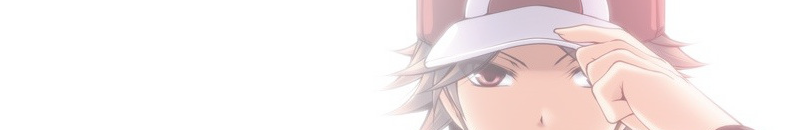
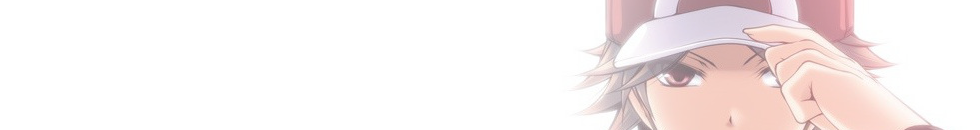
even more responsive

Changed region(s): [[0.4855, 0.0, 0.9709, 1.0]]

diff --git a/main.js b/main.js
@@ -15,11 +15,9 @@ function revealContent() {
   content.classList.add('animated');
   content.classList.add('bounceInRight')
 
-
   setTimeout(function() {
 
     content = document.getElementById('showimg');
-
     content.classList.remove('animated');
     content.classList.remove('bounceInRight');
 
@@ -28,7 +26,6 @@ function revealContent() {
 }
 
 function postPokemon(name) {
-    var pokemonName = myPokemon[name];
 
   var newcall = new XMLHttpRequest();
   newcall.onreadystatechange = function() {
@@ -41,12 +38,11 @@ function postPokemon(name) {
       document.getElementById("showimg").src = "images/"+name+".png"
     }
   }
-  newcall.open("GET", pokemonName.apiLink, true);
+  newcall.open("GET", myPokemon[name].apiLink, true);
   newcall.send();
 }
 
 // NOW WITH OBJECTS!!
-
 allPokemon = [];
 totalPokemon = 0;
 
@@ -71,9 +67,7 @@ myPokemon = {
   },
 }
 
-
 function createPokemon(name) {
-  var pokemonName = myPokemon[name];
 
   var newcall = new XMLHttpRequest();
   newcall.onreadystatechange = function() {
@@ -91,7 +85,7 @@ function createPokemon(name) {
       allPokemon.push(Pokemon);
     }
   }
-  newcall.open("GET", pokemonName.apiLink, true);
+  newcall.open("GET", myPokemon[name].apiLink, true);
   newcall.send();
 }
 
@@ -117,3 +111,10 @@ trainerKarl = {
      }
 },
 }
+
+
+//
+
+var element = document.getElementById('showname');
+var text = element.innerText || element.textContent;
+element.innerHTML = text;

diff --git a/main.css b/main.css
@@ -1,6 +1,5 @@
 html {
   line-height: 1em;
-  margin: 0 !important;
 }
 
 body {
@@ -16,9 +15,14 @@ body {
   height: 100vh;
 }
 
-h1 {
+.trainername {
   font-size: 1.4em;
   margin: 20px 5px 15px 20px;
+}
+
+h1 {
+  font-size: 1.4em;
+  margin: 0px;
 }
 
 .pokeball {
@@ -47,6 +51,7 @@ h1 {
   background-color: rgba(80, 80, 80, 0.4);
   padding: 0 !important;
   transition-duration: 1s;
+  box-shadow: 3px -3px 10px black;
 }
 
 .div2 div {
@@ -104,7 +109,8 @@ h1 {
   background-color: rgba(226, 99, 68, 0.4);
   background-size: cover;
   border-top-right-radius: 30px;
-  box-shadow: -2px -2px 10px black;
+    border-bottom-right-radius: 30px;
+  box-shadow: 3px -3px 10px black;
   transition-duration: 1s;
   height: 300px;
 }
@@ -112,7 +118,7 @@ h1 {
 .statsimg {
   position: relative;
   left: 80px;
-  top: -500px;
+  top: -540px;
   margin: 0;
   padding: 0;
 }
@@ -125,10 +131,10 @@ h1 {
 
 .statsinfo {
   font-size: 1em;
-  line-height: 20px;
-  background: rgba(0, 0, 0, 0.65);
+  background: rgba(10, 15, 25, 0.85);
   padding: 20px;
   z-index: 4;
+  border-radius: 13px;
   border-top-right-radius: 50px;
   width: 300px;
   position: relative;

diff --git a/sass.scss b/sass.scss
@@ -1,6 +1,6 @@
 $desktop: '(min-width: 991px)';
 $medium: '(max-width: 990px)';
-$tiny: '(max-width: 374px)';
+$tiny: '(max-width: 500px)';
 
 p {
   @media #{$desktop} {
@@ -26,7 +26,9 @@ p {
   @media #{$medium} {
     display: grid;
     grid-template-columns: repeat(2, 1fr);
-    transition-duration: 1s;
+
+      border-bottom-right-radius: 30px;
+      border-top-right-radius: 30px;
   }
 }
 
@@ -43,8 +45,20 @@ p {
   }
 }
 
+
 .statsimg img {
   @media #{$medium} {
+    max-width: 600px;
+    max-height: 600px;
+    position: relative;
+    left: 20px;
+    top: 170px;
+    z-index: 3;
+  }
+}
+
+.statsimg img {
+  @media #{$tiny} {
     max-width: 400px;
     max-height: 400px;
     position: relative;
@@ -62,4 +76,27 @@ p {
     line-height: 12px;
 
   }
+}
+
+.button2:hover {
+  @media #{$medium} {
+    border-top-right-radius: 20px;
+  }
+}
+
+.button6:hover {
+  @media #{$medium} {
+    border-bottom-right-radius: 20px;
+  }
+}
+
+.more-button {
+  padding: 10px 8px 8px 8px;
+  display: flex;
+  align-items: flex-end;
+  justify-content: center;
+    background: rgba(45, 45, 45, 0.85);
+    border-radius: 6px;
+    width:100px;
+
 }

diff --git a/sass.css b/sass.css
@@ -14,13 +14,23 @@
   .div2 {
     display: grid;
     grid-template-columns: repeat(2, 1fr);
-    transition-duration: 1s; } }
+    border-bottom-right-radius: 30px;
+    border-top-right-radius: 30px; } }
 
 @media (max-width: 990px) {
   .div2 div {
     z-index: 5; } }
 
 @media (max-width: 990px) {
+  .statsimg img {
+    max-width: 600px;
+    max-height: 600px;
+    position: relative;
+    left: 20px;
+    top: 170px;
+    z-index: 3; } }
+
+@media (max-width: 500px) {
   .statsimg img {
     max-width: 400px;
     max-height: 400px;
@@ -35,5 +45,22 @@
     width: 180px;
     position: relative;
     line-height: 12px; } }
+
+@media (max-width: 990px) {
+  .button2:hover {
+    border-top-right-radius: 20px; } }
+
+@media (max-width: 990px) {
+  .button6:hover {
+    border-bottom-right-radius: 20px; } }
+
+.more-button {
+  padding: 10px 8px 8px 8px;
+  display: flex;
+  align-items: flex-end;
+  justify-content: center;
+  background: rgba(45, 45, 45, 0.85);
+  border-radius: 6px;
+  width: 100px; }
 
 /*# sourceMappingURL=sass.css.map */

diff --git a/index.html b/index.html
@@ -17,9 +17,9 @@
 </head>
 
 <body class="container main-box">
-  <div class="row">
+  <div class="row ">
     <div class="div1 col l6 s12">
-      <h1>TRAINER KARL</h1>
+      <h1 class="trainername">TRAINER KARL</h1>
     </div>
   </div>
   <div class="main-grid row">
@@ -35,12 +35,12 @@
 
     <div class="div3 col s12 l9">
       <div class="statsinfo">
-        <p id="showname">&#9668; &nbsp; CHOOSE YOUR POKEMON</p>
+        <h1 id="showname">CHOOSE YOUR POKEMON</h1>
         <hr><br>
         <p id="showhp">Strong Pokémon. Weak Pokémon. That is only the selfish perception of people. Truly skilled trainers should try to win with their favorites. <br>- Elite Four Karen</p>
         <p id="showatk"></p>
         <p id="showabilities"></p>
-        <p class="more-button"></p>
+        <div class="more-button">MOAR</div>
       </div>
       <div class="statsimg">
         <img id="showimg"></p>
